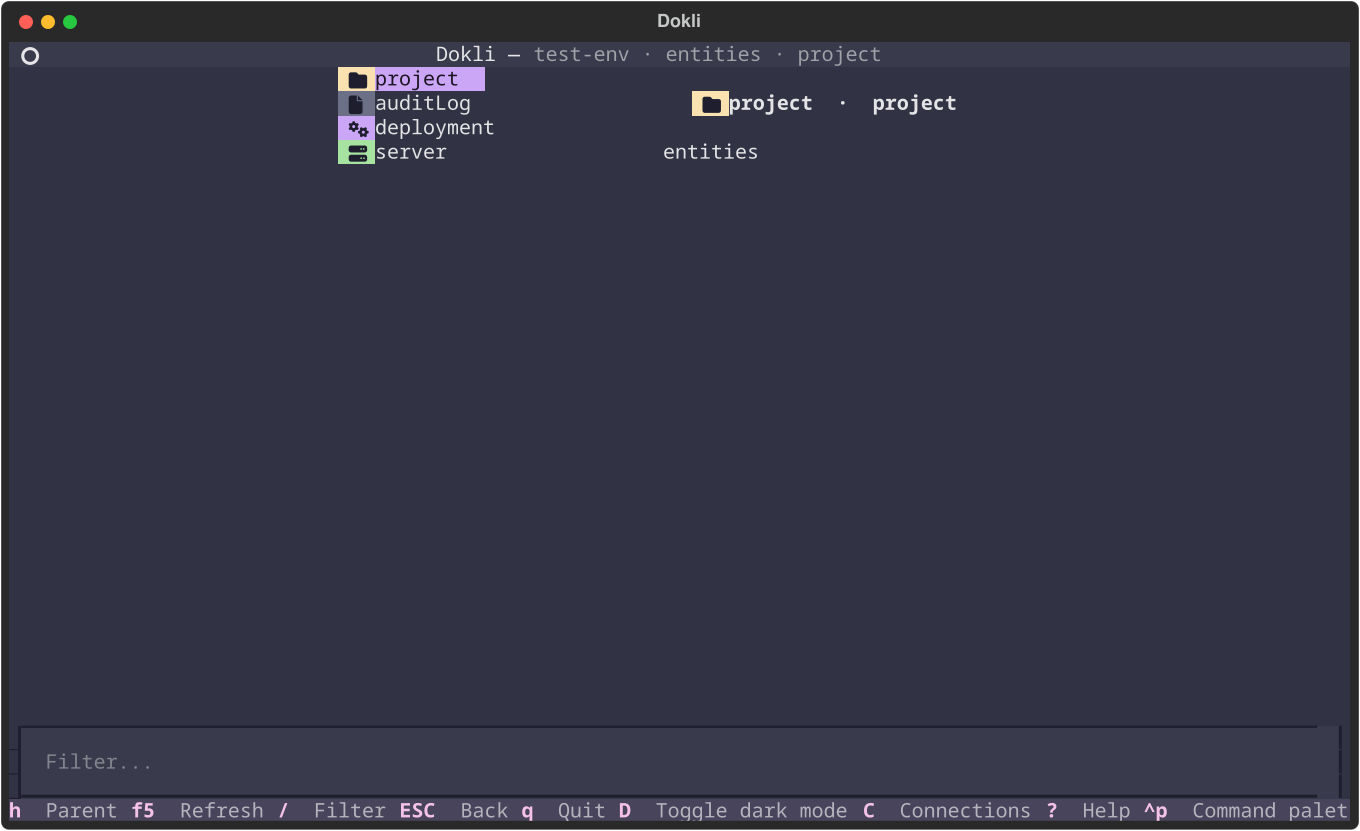
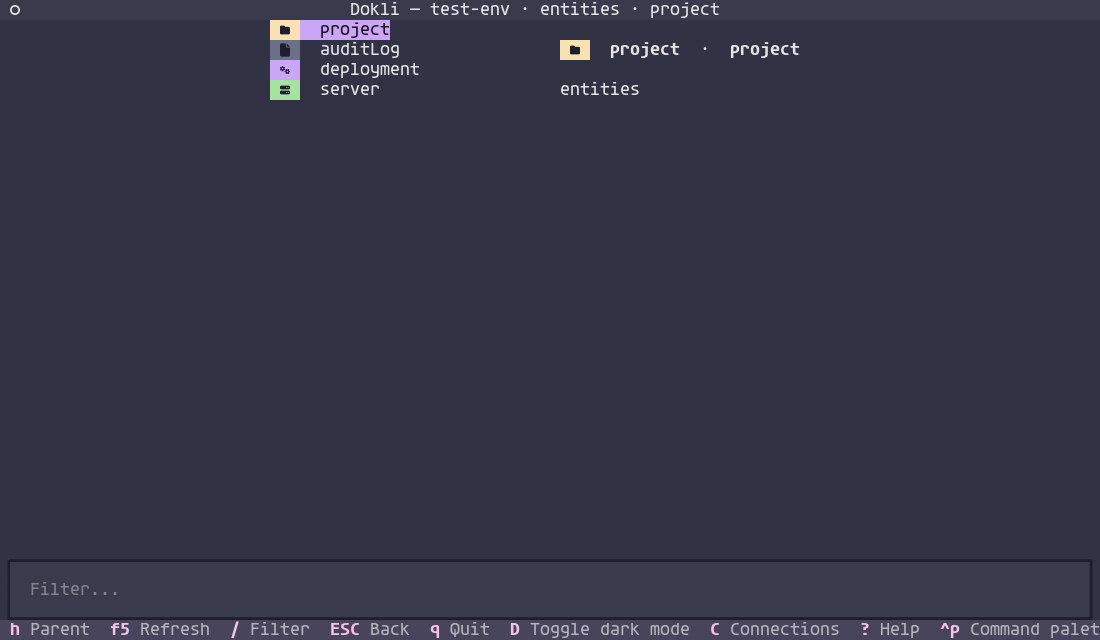
DOKLI-68-f1: tools: rasterize screenshots directly from the compositor cell grid Replace the SVG+rsvg-convert path (which serialized text as <text textLength> and depended on Fira Code + Nerd Font metrics at render time) with a direct PIL rasterizer: the compositor's cell grid (char + fg/bg/bold per

Changed region(s): [[0.0, 0.0, 1.0, 1.0]]

diff --git a/tools/screenshots.py b/tools/screenshots.py
@@ -1,28 +1,30 @@
 """Generate README screenshots from the TUI.
 
 Runs the app headless against the fake, anonymized test data (``FAKE_SCHEMA`` +
-mocked responses from ``tests/test_tui.py``) — never against a real connection —
-exports each screen as an SVG, post-processes it (crisp logo blocks, centered
-Nerd Font icons), and rasterizes it to a PNG in ``assets/``.
+mocked responses from ``tests/test_tui.py``) — never against a real connection
+— and rasterizes each screen directly from Textual's compositor cell grid into a
+PNG in ``assets/``.
 
-PNGs are committed instead of SVGs because the SVG rendering depends on fonts
-(Fira Code via ``@font-face``, Nerd Font icons) that end users may not have;
-rendering at generation time guarantees the README images always look right.
+Rasterizing the cell grid ourselves (instead of Textual's SVG export, which
+serializes text as ``<text textLength>`` and depends on the viewer honoring the
+metrics of Fira Code + Nerd Font glyphs) keeps the output faithful to a real
+terminal: every character — box-drawing borders, Nerd Font icons, and the
+icon↔text spacing — is drawn at its exact cell with a real Nerd Font, so the
+README images look right for everyone regardless of installed fonts.
 
-Requires ``rsvg-convert`` and the Nerd Fonts for the icon glyphs.
+Requires Pillow and the Agave Nerd Font Mono (regular + bold).
 
 Usage:
     uv run python tools/screenshots.py
 """
 
 import asyncio
-import html
-import re
-import subprocess
 import sys
-import tempfile
 from pathlib import Path
 from unittest import mock
+
+from PIL import Image, ImageDraw, ImageFont
+from rich.console import Console
 
 from dokli.tui.app import DokliApp
 from dokli.tui.engine import parse_spec
@@ -46,6 +48,14 @@ SIZE = (110, 32)
 # The splash logo is 33 lines tall plus header/footer/status box, so it needs
 # more rows than the default screenshot size to avoid clipping the art.
 SIZE_SPLASH = (110, 40)
+
+FONT_REGULAR = "/usr/share/fonts/TTF/AgaveNerdFontMono-Regular.ttf"
+FONT_BOLD = "/usr/share/fonts/TTF/AgaveNerdFontMono-Bold.ttf"
+FONT_SIZE = 20
+
+# Fallbacks for cells without an explicit style (e.g. bare padding).
+DEFAULT_FG = (200, 200, 205)
+DEFAULT_BG = (49, 50, 68)
 
 LOG_DATA = (
     "2026-08-05T19:55:54Z frigate started\n"
@@ -72,87 +82,59 @@ def _patch_api() -> list[mock._patch]:
     ]
 
 
-def _write_png(name: str, svg: str) -> str:
-    """Rasterize a (post-processed) SVG into ``assets/tui-<name>.png``."""
-    png_path = ASSETS / f"tui-{name}.png"
-    with tempfile.NamedTemporaryFile(suffix=".svg", delete=False) as handle:
-        handle.write(svg.encode())
-        svg_path = Path(handle.name)
-    try:
-        subprocess.run(["rsvg-convert", "-o", str(png_path), str(svg_path)], check=True)
-    finally:
-        svg_path.unlink(missing_ok=True)
-    return str(png_path)
+def _triplet(color, fallback):
+    """A Rich color as an ``(r, g, b)`` tuple, falling back when unset/default."""
+    if color is None:
+        return fallback
+    triplet = color.triplet
+    if triplet is None:
+        return fallback
+    return (triplet.red, triplet.green, triplet.blue)
 
 
-def _save(app: DokliApp, name: str) -> str:
-    svg = _center_icon_glyphs(app.export_screenshot())
-    return _write_png(name, svg)
+def _render_png(app: DokliApp, name: str) -> str:
+    """Rasterize the screen's cell grid into ``assets/tui-<name>.png``."""
+    width, height = app.size
+    regular = ImageFont.truetype(FONT_REGULAR, FONT_SIZE)
+    bold = ImageFont.truetype(FONT_BOLD, FONT_SIZE)
+    cell_w = round(regular.getlength(" "))
+    ascent, descent = regular.getmetrics()
+    cell_h = ascent + descent
 
+    console = Console(width=width, height=height, force_terminal=True, color_system="truecolor")
+    renderable = app.screen._compositor.render_update(
+        full=True, screen_stack=app._background_screens, simplify=True
+    )
+    lines = console.render_lines(
+        renderable, console.options.update(width=width, height=height), style=None, pad=False
+    )
 
-_TEXT_ELEMENT = re.compile(r"<text(?P<attrs>[^>]*)>(?P<body>[^<]*)</text>")
-
-
-def _center_icon_glyphs(svg: str) -> str:
-    r"""Center Nerd Font icon glyphs in their colored cells.
-
-    Textual emits icons as ``<text>\xa0<glyph>\xa0</text>`` with a
-    ``textLength`` that forces 3 cells, but the glyph's natural advance
-    width depends on the viewer's font. Rewriting each as a single
-    ``text-anchor="middle"`` glyph at the cell center makes the position
-    font-independent.
-    """
-
-    def replace(match: re.Match) -> str:
-        attrs, body = match.group("attrs"), match.group("body")
-        text = html.unescape(body)
-        if len(text) != 3 or text[0] not in " \xa0" or text[2] not in " \xa0" or text[1].isascii():
-            return match.group(0)
-        x = float(re.search(r'x="([\d.]+)"', attrs).group(1))
-        total = float(re.search(r'textLength="([\d.]+)"', attrs).group(1))
-        # Nerd Font icon ink is not centered in its advance box; Pango offsets
-        # it a few px right of a text-anchor=middle, so nudge the anchor left.
-        center = x + total / 2 - 3
-        attrs = re.sub(r'x="[\d.]+"', f'x="{center:.1f}"', attrs)
-        attrs = re.sub(r'textLength="[\d.]+"', "", attrs)
-        return f'<text{attrs} text-anchor="middle">{text[1]}</text>'
-
-    return _TEXT_ELEMENT.sub(replace, svg)
-
-
-def _rectify_logo_blocks(svg: str) -> str:
-    """Render the splash logo's ``█`` glyphs as crisp ``<rect>`` cells.
-
-    The exported SVG positions every character at fixed cell coordinates, but
-    the actual rendering depends on the viewer honoring ``textLength`` and using
-    a monospaced font (Fira Code via ``@font-face``); fallback fonts or renderers
-    that ignore ``textLength`` compress the spaces and misalign the block art.
-    Drawing the blocks as rects removes that dependency entirely.
-    """
-    fills = {k: v.strip() for k, v in re.findall(r"\.terminal-\w+-r(\d+)\s*\{\s*fill:\s*([^;}]+)", svg)}
-
-    def replace(match: re.Match) -> str:
-        attrs, body = match.group("attrs"), match.group("body")
-        if "█" not in body:
-            return match.group(0)
-        text = html.unescape(body).replace("\u00a0", " ")
-        cls = re.search(r'class="[^"]*-r(\d+)"', attrs).group(1)
-        x = float(re.search(r'x="([\d.]+)"', attrs).group(1))
-        y = float(re.search(r'y="([\d.]+)"', attrs).group(1))
-        total = float(re.search(r'textLength="([\d.]+)"', attrs).group(1))
-        cell = total / len(text) if text else 12.2
-        fill = fills.get(cls, "#e4e4e6")
-        top = y - 18.5  # baseline -> cell top (font-size 20 / line-height 24.4)
-        rects = []
-        for index, char in enumerate(text):
-            if char == "█":
-                rects.append(
-                    f'<rect x="{x + index * cell:.1f}" y="{top:.1f}" '
-                    f'width="{cell:.1f}" height="24.65" fill="{fill}" />'
-                )
-        return "".join(rects)
-
-    return _TEXT_ELEMENT.sub(replace, svg)
+    image = Image.new("RGB", (width * cell_w, height * cell_h), DEFAULT_BG)
+    draw = ImageDraw.Draw(image)
+    for row, line in enumerate(lines):
+        col = 0
+        for segment in line:
+            if getattr(segment, "control", False):
+                continue
+            text = segment.text
+            if text.startswith("\x1b["):
+                continue
+            style = segment.style
+            fg = _triplet(style.color if style else None, DEFAULT_FG)
+            bg = _triplet(style.bgcolor if style else None, DEFAULT_BG)
+            font = bold if (style and style.bold) else regular
+            for char in text:
+                if char == "\n":
+                    continue
+                x0 = col * cell_w
+                y0 = row * cell_h
+                draw.rectangle([x0, y0, x0 + cell_w, y0 + cell_h], fill=bg)
+                if char != " ":
+                    draw.text((x0, y0 + ascent), char, font=font, fill=fg, anchor="ls")
+                col += 1
+    path = ASSETS / f"tui-{name}.png"
+    image.save(str(path))
+    return str(path)
 
 
 async def _settle(pilot) -> None:
@@ -178,8 +160,7 @@ async def shot_splash() -> str:
         await _settle(pilot)
         app.sub_title = ""
         await _settle(pilot)
-        svg = _center_icon_glyphs(_rectify_logo_blocks(app.export_screenshot()))
-        return _write_png("splash", svg)
+        return _render_png(app, "splash")
 
 
 async def shot_connections() -> str:
@@ -187,7 +168,7 @@ async def shot_connections() -> str:
     app = DokliApp(config=_config())
     async with app.run_test(size=SIZE) as pilot:
         await _settle(pilot)
-        return _save(app, "connections")
+        return _render_png(app, "connections")
 
 
 async def shot_browser() -> str:
@@ -196,7 +177,7 @@ async def shot_browser() -> str:
     async with app.run_test(size=SIZE) as pilot:
         app.set_connection(_connection())
         await _wait_for_browser(app, pilot)
-        return _save(app, "browser")
+        return _render_png(app, "browser")
 
 
 async def shot_browser_detail() -> str:
@@ -217,7 +198,7 @@ async def shot_browser_detail() -> str:
         _select(app, "torrents")
         await pilot.press("l")
         await _settle(pilot)
-        return _save(app, "browser-detail")
+        return _render_png(app, "browser-detail")
 
 
 async def shot_palette() -> str:
@@ -228,7 +209,7 @@ async def shot_palette() -> str:
         await _wait_for_browser(app, pilot)
         await pilot.press("ctrl+p")
         await _settle(pilot)
-        return _save(app, "palette")
+        return _render_png(app, "palette")
 
 
 async def shot_result() -> str:
@@ -247,7 +228,7 @@ async def shot_result() -> str:
         app.install_screen(screen, name="result")
         app.push_screen("result")
         await _settle(pilot)
-        return _save(app, "result")
+        return _render_png(app, "result")
 
 
 SHOTS = {

diff --git a/README.md b/README.md
@@ -332,19 +332,34 @@ A schema-driven TUI (`dokli tui`) that generates its interface from the Dokploy 
 - Connections are managed from the TUI (add/edit/delete, persisted to the config file); `dokli tui [connection]` opens a specific connection directly.
 - Mask secret-like fields in forms and results.
 
-| | |
-|---|---|
-| Connections | Yazi-style browser |
-| ![Connections](https://raw.githubusercontent.com/jonykalavera/dokli/main/assets/tui-connections.png) | ![Browser](https://raw.githubusercontent.com/jonykalavera/dokli/main/assets/tui-browser.png) |
-| Compose detail | Command palette |
-| ![Compose detail](https://raw.githubusercontent.com/jonykalavera/dokli/main/assets/tui-browser-detail.png) | ![Command palette](https://raw.githubusercontent.com/jonykalavera/dokli/main/assets/tui-palette.png) |
-| Result view (logs + search) | Splash |
-| ![Result view](https://raw.githubusercontent.com/jonykalavera/dokli/main/assets/tui-result.png) | ![Splash](https://raw.githubusercontent.com/jonykalavera/dokli/main/assets/tui-splash.png) |
+### Connections
+
+![Connections](https://raw.githubusercontent.com/jonykalavera/dokli/main/assets/tui-connections.png)
+
+### Yazi-style browser
+
+![Browser](https://raw.githubusercontent.com/jonykalavera/dokli/main/assets/tui-browser.png)
+
+### Compose detail
+
+![Compose detail](https://raw.githubusercontent.com/jonykalavera/dokli/main/assets/tui-browser-detail.png)
+
+### Command palette
+
+![Command palette](https://raw.githubusercontent.com/jonykalavera/dokli/main/assets/tui-palette.png)
+
+### Result view (logs + search)
+
+![Result view](https://raw.githubusercontent.com/jonykalavera/dokli/main/assets/tui-result.png)
+
+### Splash
+
+![Splash](https://raw.githubusercontent.com/jonykalavera/dokli/main/assets/tui-splash.png)
 
 Screenshots are **PNGs** generated headless from anonymized mock data — they never
-show real instances, and rasterizing at generation time means they render the
-same for every reader (no font/Nerd Font dependency). Regenerate them with
-`make screenshots` (requires `rsvg-convert`; the Nerd Fonts for the icons).
+show real instances, and are rasterized from the terminal's cell grid with a real
+Nerd Font, so they render the same for every reader. Regenerate them with
+`make screenshots` (requires Pillow and the Agave Nerd Font Mono).
 
 ### TUI customization
 

diff --git a/AGENTS.md b/AGENTS.md
@@ -19,7 +19,7 @@ Use `uv` (migrated from poetry); Python 3.11 in `.venv` (`.python-version`).
 - Single test: `uv run pytest tests/test_tui.py::test_name -q`.
 - `make format` — `ruff format` + `ruff check --fix`.
 - `make dev-tui` — run the TUI in dev mode (`dokli.tui.app:DokliApp`). Needs a Nerd Font for the icons.
-- `make screenshots` — regenerate the README images (`tools/screenshots.py`, anonymous mock data only). Requires `rsvg-convert` and the Nerd Fonts; outputs PNGs to `assets/`.
+- `make screenshots` — regenerate the README images (`tools/screenshots.py`, anonymous mock data only). Rasterizes Textual's compositor cell grid with the Agave Nerd Font Mono (Pillow), outputting PNGs to `assets/`.
 
 ## Git workflow
 
